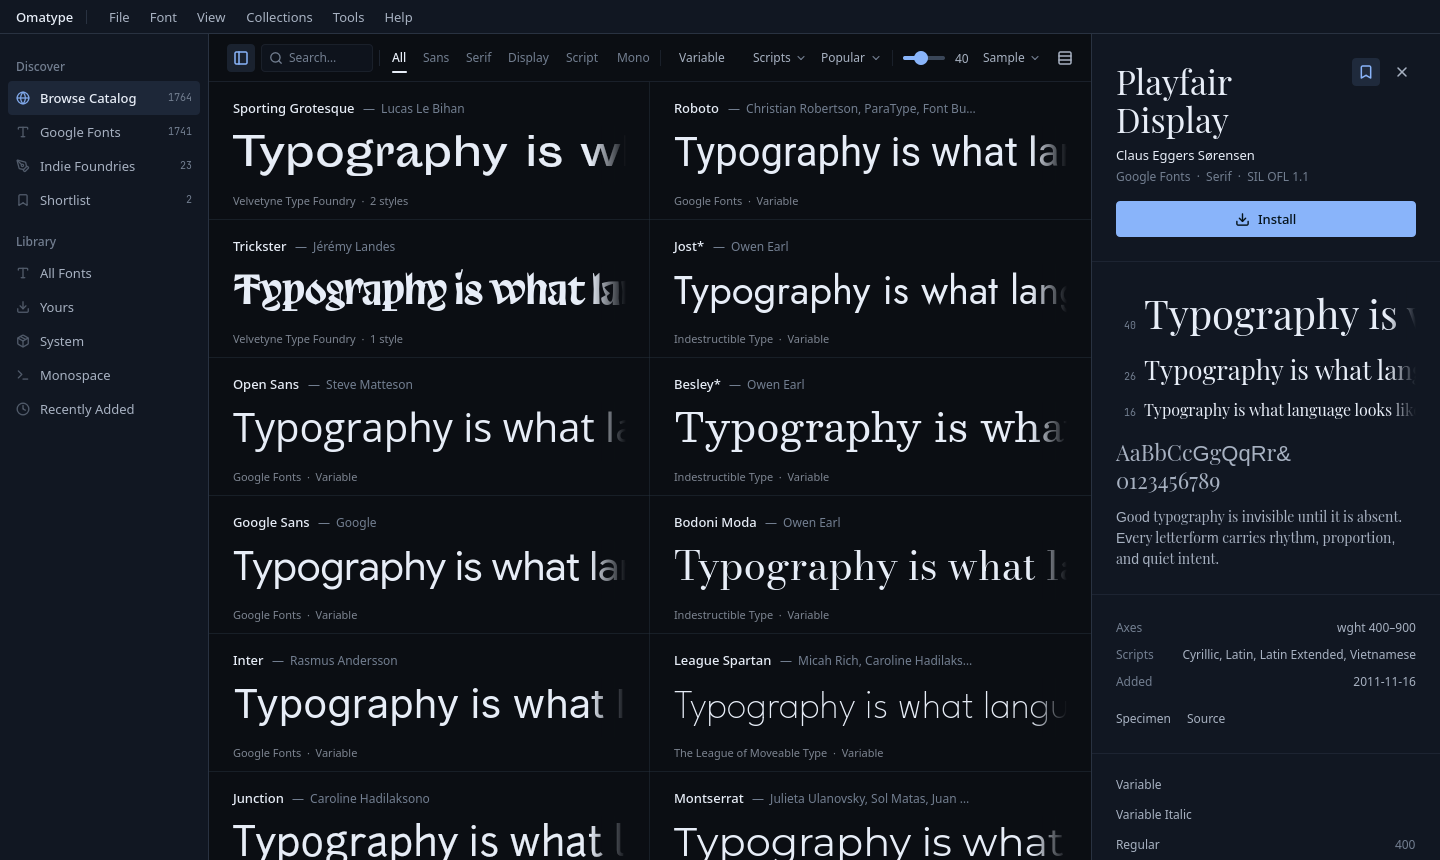
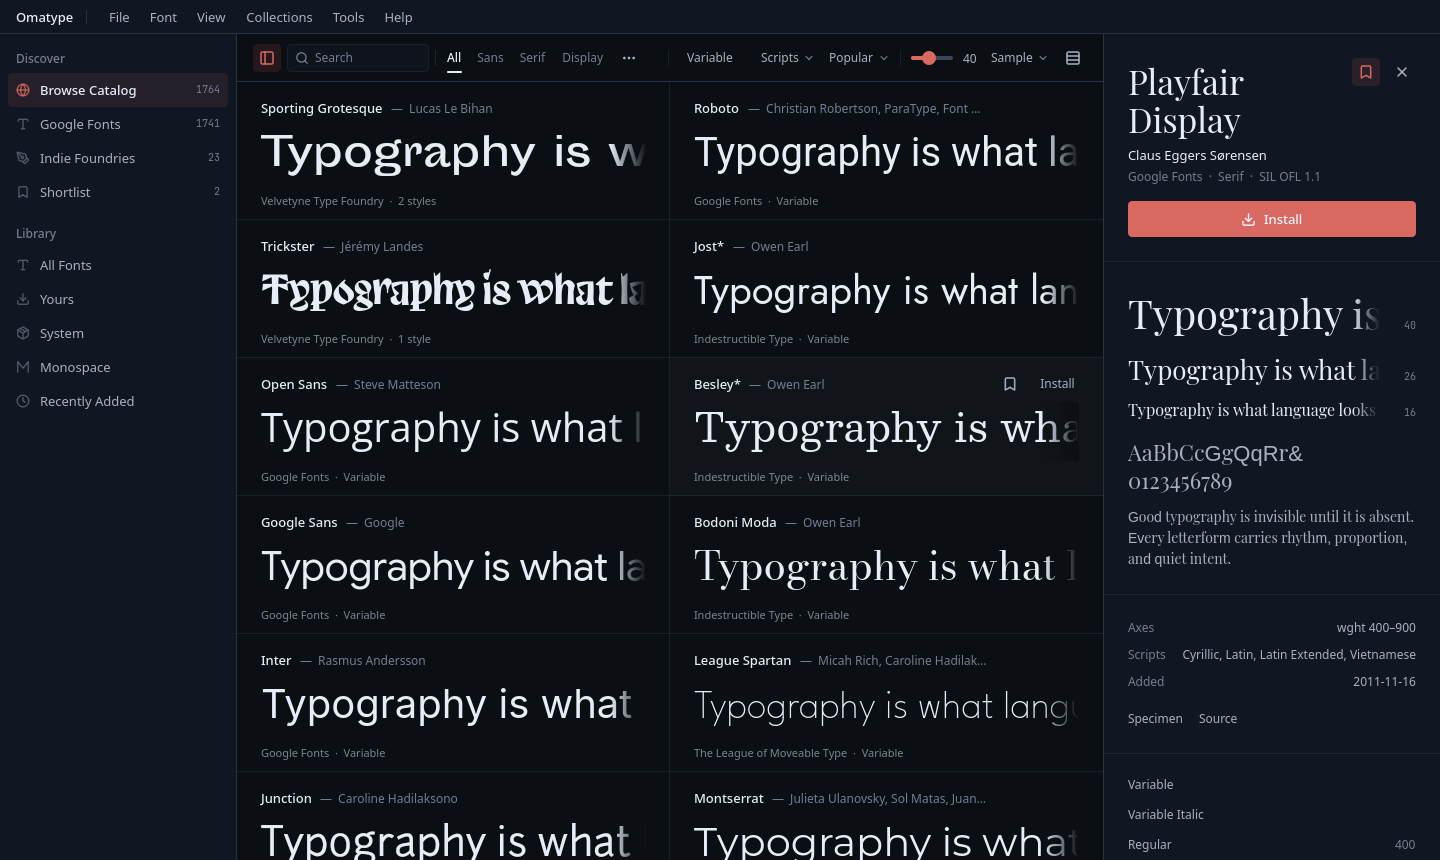
Bring the README up to date
Make clear the Omarchy bar widget is an optional, separate plugin that
needs the omatype command; document Discover and Library modes, the refine
row, the resizable panel, tab overflow, the mode-aware View menu,
Applications, About and the Ctrl+G / Ctrl+Shift+L shortcuts; fix Tidy up's
menu, the Shortlist button and preset names; refresh the screenshot.

diff --git a/README.md b/README.md
@@ -14,47 +14,15 @@ Omatype brings an **Adobe Fonts-style discovery experience** to Linux and Omarch
 
 - **Google Fonts (1,740+ families)** indexed live with 24-hour local caching, plus **23 curated indie open-source typefaces** from **Velvetyne Type Foundry**, **Indestructible Type**, **The League of Moveable Type**, **Vercel (Geist)**, **GitHub Next (Monaspace)**, **Nerd Fonts**, and independent designers.
 - **Instant live previews** — streams tiny 3–12 KB subsetted TrueType previews on demand and caches them in `~/.cache/omatype/previews/` so scrolling through thousands of typefaces stays fast and responsive.
-- **Type-first browsing** — custom editable sample text with typographic presets (*Sentence*, *Editorial*, *Paragraph*, *Figures*, *Alphabet*), adjustable preview size, grid or full-width waterfall rows, and faceted filters for classification, variable fonts, writing systems, and sort order.
+- **Type-first browsing** — custom editable sample text with typographic presets (*Editorial*, *Pangram*, *Figures*, *Alphabet*, *Paragraph*), adjustable preview size, grid or full-width rows, and filters for category, variable fonts, writing systems and sort order. Tabs that do not fit beside the detail panel fold behind a **…** button.
 - **Designer attribution & provenance** — every detail view credits the type designer(s), foundry/source, license (SIL OFL 1.1 / Apache 2.0), variable axes, scripts, and links to the upstream specimen and repository.
-- **Suitcase-style Shortlist** — bookmark candidates while exploring, compare them, and click **Install Shortlist** to install the entire set in one click.
-- **Granular weight management** — one-click install the variable font (recommended) or select individual static weights. Fonts install cleanly to `~/.local/share/fonts/<Family>/` alongside their license file and automatically refresh `fc-cache` so design apps like **FigCraft**, **ArtCraft**, Inkscape, GIMP, and Krita can pick them up.
+- **Suitcase-style Shortlist** — bookmark candidates while exploring, then open **Shortlist** in the sidebar and click **Install all** to install the set in one go.
+- **Granular weight management** — one-click install the variable font (recommended) or select individual static weights. Fonts install cleanly to `~/.local/share/fonts/<Family>/` alongside their license file and automatically refresh `fc-cache`.
+- **Apps see new fonts straight away** — register the applications you set type in (FigCraft, ArtCraft, Inkscape, GIMP, Krita, LibreOffice, a browser) under **Tools ▸ Applications**, and Omatype restarts them after an install so the new font is in their menus. See [Applications](#applications).
 
 ## Install
 
-Omatype is made for Omarchy and works both as a standalone desktop app/CLI and as an **Omarchy Quattro bar widget** (`pipetogrep.omatype`).
-
-### Omarchy Plugin Marketplace (Recommended)
-
-1. Add and enable the Omarchy bar plugin from GitHub:
-
-```bash
-omarchy plugin add https://github.com/pipetogrep/omatype.git --enable
-```
-
-2. Build and install the native `omatype` binary from the cloned plugin folder (installs `/usr/bin/omatype`, desktop entry, and icon via `makepkg`):
-
-```bash
-cd ~/.config/omarchy/plugins/pipetogrep.omatype
-./bin/install
-```
-
-Alternatively, compile `./build/omatype` in place without installing a system package (the bar widget automatically detects `build/omatype` inside the plugin directory, `~/.local/bin/omatype`, or `omatype` on `PATH`):
-
-```bash
-cd ~/.config/omarchy/plugins/pipetogrep.omatype
-./bin/build
-```
-
-Click the **Aa** button in your Omarchy bar to search Google Fonts and curated indie foundries, 1-click install fonts, browse installed families, or open the full Omatype window (**middle-click** launches the full app directly). You can also toggle the popup from a keybinding with `omarchy-shell pipetogrep.omatype toggle` or move it with `omarchy bar move pipetogrep.omatype --section right`.
-
-Update later with:
-
-```bash
-omarchy plugin update pipetogrep.omatype
-cd ~/.config/omarchy/plugins/pipetogrep.omatype && ./bin/install
-```
-
-### Building from source (standalone)
+### The app
 
 ```sh
 sudo pacman -S --needed base-devel git
@@ -63,24 +31,44 @@ cd ~/omatype
 ./bin/install
 ```
 
-Run `./bin/build` to compile `./build/omatype` without installing a package, and `./bin/test` to run the offscreen Qt Test suite.
+`./bin/install` builds an Arch package with `makepkg` and installs `omatype`
+to `/usr/bin`, with a desktop entry and icon, so it shows up in the app
+launcher. To try it without installing, run `./bin/build` and then
+`./build/omatype`. `./bin/test` runs the offscreen Qt Test suite.
+
+Update later with `git pull && ./bin/install`.
+
+### Omarchy bar widget (optional)
+
+Omatype also comes as a bar widget for Omarchy's shell, `pipetogrep.omatype`:
+an **Aa** button whose popup searches the catalog, installs fonts in one click
+and lists installed families. **It is a separate plugin.** Installing or
+running the app does not put anything in your bar; add the widget yourself:
+
+```bash
+omarchy plugin add https://github.com/pipetogrep/omatype.git --enable
+```
+
+The widget runs the `omatype` command, so install the app first (above). If
+it cannot find it, the popup says *Omatype binary not found*. It looks on your
+`PATH`, then in `~/.local/bin`, then for a `build/omatype` inside the plugin
+folder (`~/.config/omarchy/plugins/pipetogrep.omatype`).
+
+Click **Aa** to open the popup; **middle-click** opens the full window. Toggle
+it from a keybinding with `omarchy-shell pipetogrep.omatype toggle`, or move
+it with `omarchy bar move pipetogrep.omatype --section right`. Update it with
+`omarchy plugin update pipetogrep.omatype`.
 
 ### Uninstall
 
-To remove the Omarchy bar plugin:
-
 ```bash
-omarchy plugin disable pipetogrep.omatype
+omarchy plugin disable pipetogrep.omatype   # the bar widget, if you added it
 omarchy plugin remove pipetogrep.omatype
+sudo pacman -Rns omatype                     # the app, if installed with ./bin/install
 ```
 
-To remove the installed `omatype` Arch package (if installed via `./bin/install`):
-
-```bash
-sudo pacman -Rns omatype
-```
-
-Your installed fonts in `~/.local/share/fonts/` are left untouched. To also remove Omatype's settings and preview cache:
+Your installed fonts in `~/.local/share/fonts/` are left untouched. To also
+remove Omatype's settings and caches:
 
 ```bash
 rm -rf ~/.config/omatype ~/.cache/omatype
@@ -107,19 +95,29 @@ omatype export Inter ~/Desktop/inter-files
 
 Add `--json` to any command for scripting.
 
-## Local Library (from OmaFont)
-
 ## The window
 
-**Sidebar** — where the families come from. All Fonts, Yours, System,
-Starred, Monospace, Recently Added, Deactivated, Duplicates; then your tags,
-collections and smart collections. `Ctrl+B` hides it.
+Omatype has two modes, picked in the sidebar: **Discover** (`Ctrl+G`) browses
+the open-source catalogs, and **Library** (`Ctrl+Shift+L`) manages the fonts
+on your machine. The panel on the right shows the selected family in both;
+drag its left edge to resize it (double-click to reset). The **View** menu
+follows the mode: in Discover, Grid and List switch the catalog layout,
+Bigger and Smaller change the preview size, and Sort by lists the catalog
+orders.
+
+**Sidebar** — where the families come from. Under Discover: Browse Catalog,
+Google Fonts, Indie Foundries, Shortlist and Installed. Under Library: All
+Fonts, Yours, System, Starred, Monospace, Recently Added, Deactivated,
+Duplicates; then your tags, collections and smart collections. Each Library
+source expands to list its families (hover a row for the chevron). `Ctrl+B`
+hides the sidebar.
 
 **The refine row**, under the toolbar, narrows whatever source is showing:
 design tabs (Serif, Sans-serif, Handwriting, Ornamental, Symbolic, Monospace,
 Variable, Colour glyphs, worked out from the files themselves), then a
 **Scripts** menu (Latin, Greek, Cyrillic, Arabic, Devanagari…) and a
-**Languages** menu. **Clear** resets all three.
+**Languages** menu. **Clear** resets all three. Tabs that do not fit fold
+behind a **…** button.
 
 **The list** shows the families of the chosen source, split into **Yours**,
 the ones in your font folder that you can remove, and **System**, which belong
@@ -152,7 +150,8 @@ typing a filter searches all of them regardless. Your own fonts never fold.
 | Compare | Up to six families stacked, the same sample line in each. `Ctrl+M` adds or removes the selected family |
 
 The sample line is editable, because a font is chosen against the words it
-will actually set. The slider, or `Ctrl` `+` and `−`, changes the type size.
+will actually set. The slider, or `Ctrl` `+` and `−`, changes the type size
+(in Discover, the preview size).
 
 **The Info pane** on the right starts with your own marks: a star, tags, and a
 note. Then it reads the font files themselves: kind, version, PostScript and
@@ -188,7 +187,7 @@ names. The chevron picks another scope:
 | How | What happens |
 |---|---|
 | Drop a file, folder or archive on the window | Everything installable inside it is staged |
-| **Install** in the toolbar, or `Ctrl+O` | Same, through the desktop file chooser |
+| **File ▸ Install from Disk**, the folder button in the toolbar, or `Ctrl+O` | Same, through the desktop file chooser |
 | Open a font file from your file manager | Opens Omatype with that font staged |
 | `omatype ~/Downloads/Pack.zip` | Same, from a terminal |
 
@@ -211,8 +210,21 @@ you have set it). No password is needed.
 
 **Applications already running will not see a new font until they restart.**
 That is fontconfig, not Omatype. Apps opened afterwards pick it up straight
-away. Some apps, such as DaVinci Resolve, read the font list only when they
-start, so quit and reopen them after installing.
+away. Register the apps you use under [Applications](#applications) and
+Omatype restarts them for you.
+
+## Applications
+
+Most applications read the font list once, when they start. **Tools ▸
+Applications** lists the apps installed on your machine, running ones first,
+along with the ones that set type: design tools, word processors, editors,
+browsers and terminals. **Register** the ones you use. After every install
+Omatype restarts the registered apps that are running, so the new font is in
+their menus. Apps are asked to quit, never killed, so one with unsaved work
+can still ask you to save. Turn
+**Auto** off for an app to get a **Reload** button instead. **Add custom**
+registers anything else, by process name, launch command or your own reload
+command (for instance `pkill -USR1 kitty`).
 
 ## Deactivating fonts
 
@@ -249,7 +261,7 @@ rename or delete it.
 
 ## Tidy up
 
-**File ▸ Tidy up** (`Ctrl+Shift+T`) lists what is worth cleaning, each with a
+**Tools ▸ Tidy up** (`Ctrl+Shift+T`) lists what is worth cleaning, each with a
 fix: the same styles installed as both OTF and TTF (keep one format), static
 weights sitting beside a variable font (keep the variable font), files that
 fail validation, fonts of yours that set no Latin text, and how much the
@@ -271,7 +283,7 @@ Anything that would delete your own files asks first and lists them.
 
 ## Setting your terminal font
 
-Select a monospace family and click **Terminal font** or press `Ctrl+T`. This
+Select a monospace family and click **Set as Terminal font** or press `Ctrl+T`. This
 hands off to Omarchy's own `omarchy-font-set`, so your terminal configs and
 the monospace alias are updated the way Omarchy expects. The button only
 appears on a machine that has that tool.
@@ -280,6 +292,8 @@ appears on a machine that has that tool.
 
 | Key | Does |
 |---|---|
+| `Ctrl+G` | Discover: browse the open-source catalogs |
+| `Ctrl+Shift+L` | Library: your installed fonts |
 | `Ctrl+O` | Install fonts from a file, folder or archive |
 | `Enter` | Install what is staged |
 | `Esc` | Clear the stage, then the filter |
@@ -295,7 +309,7 @@ appears on a machine that has that tool.
 | `Ctrl+T` | Set the selected monospace family as the terminal font |
 | `Ctrl+1` … `Ctrl+5` | Specimen, Grid, List, Repertoire, Compare |
 | `Ctrl+Shift+T` | Tidy up |
-| `Ctrl` `+` / `−` / `0` | Bigger, smaller, actual size |
+| `Ctrl` `+` / `−` / `0` | Bigger, smaller, actual size (Library type or Discover previews) |
 | `Ctrl+B` | Show or hide the sidebar |
 | `Ctrl+L` | Show or hide the language-coverage fonts |
 | `Ctrl+R` | Rescan |
@@ -313,8 +327,9 @@ appears on a machine that has that tool.
 | Where | What |
 |---|---|
 | `~/.local/share/fonts/<Family>/` | Fonts you install (or under `$XDG_DATA_HOME/fonts`) |
-| `~/.config/omatype/library.json` | Your collections, smart collections, tags, stars and notes |
-| `~/.config/omatype/omatype.conf` | Window settings: view, sort order, sample text |
+| `~/.config/omatype/library.json` | Your collections, smart collections, tags, stars, notes and registered applications |
+| `~/.config/omatype/omatype.conf` | Window settings: view, sort order, sample text, panel width |
+| `~/.cache/omatype/` | The Google Fonts index and preview fonts; safe to delete |
 | `~/.config/fontconfig/conf.d/60-omatype-deactivated.conf` | The deactivated fonts; removed when nothing is deactivated |
 
 Nothing outside your home folder is touched, and no password is needed for
@@ -322,7 +337,8 @@ anything but installing the app itself.
 
 ## Support
 
-Omatype is free and open source. If it saves you time, you can support its
+**Help ▸ About Omatype** links to [omatype.com](https://omatype.com), the
+source and Ko-fi. Omatype is free and open source. If it saves you time, you can support its
 development on [Ko-fi](https://ko-fi.com/pipetogrep).
 
 ## Attribution
